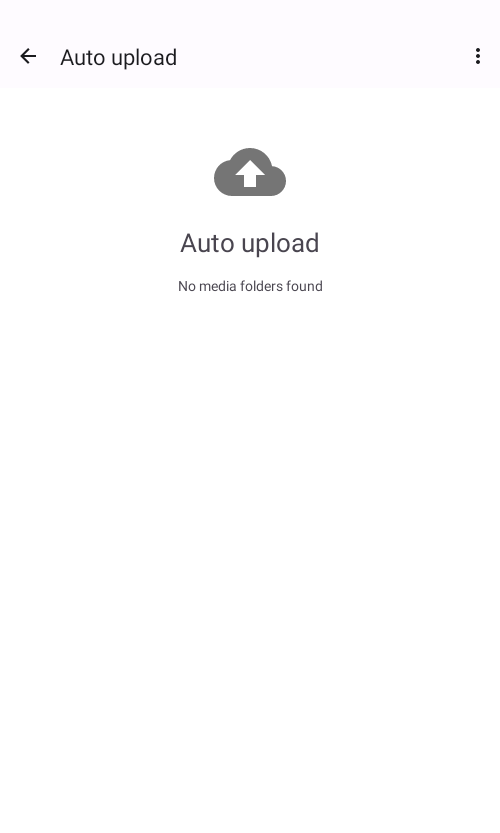
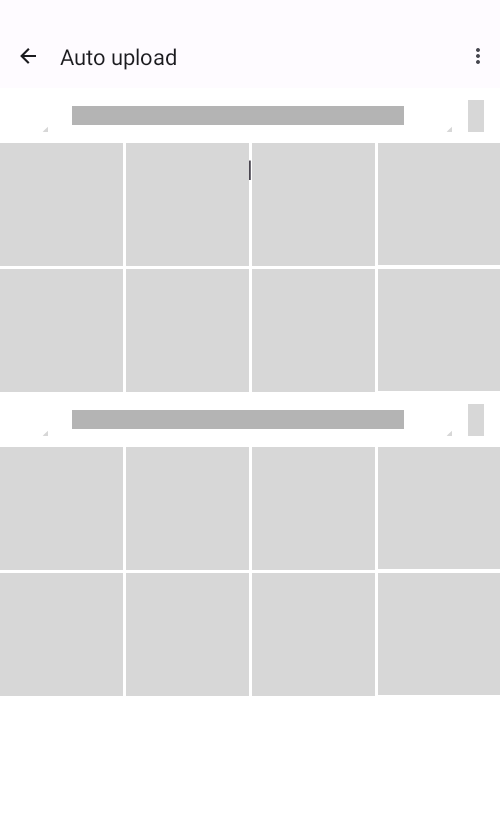
Fix git conflicts

diff --git a/app/src/androidTest/java/com/owncloud/android/ui/fragment/FileDetailFragmentStaticServerIT.kt b/app/src/androidTest/java/com/owncloud/android/ui/fragment/FileDetailFragmentStaticServerIT.kt
@@ -94,12 +94,6 @@ class FileDetailFragmentStaticServerIT : AbstractIT() {
     @ScreenshotTest
     @Suppress("MagicNumber")
     fun showDetailsActivities() {
-        val activity = testActivityRule.launchActivity(null)
-        val sut = FileDetailFragment.newInstance(oCFile, user, 0)
-        activity.addFragment(sut)
-
-        waitForIdleSync()
-
         val date = GregorianCalendar()
         date.set(2005, 4, 17, 10, 35, 30) // random date
 
@@ -152,13 +146,16 @@ class FileDetailFragmentStaticServerIT : AbstractIT() {
             )
         )
 
-        activity.runOnUiThread {
-            sut.fileDetailActivitiesFragment.populateList(activities as List<Any>?, true)
+        val sut = FileDetailFragment.newInstance(oCFile, user, 0)
+        testActivityRule.launchActivity(null).apply {
+            addFragment(sut)
+            waitForIdleSync()
+            runOnUiThread {
+                sut.fileDetailActivitiesFragment.populateList(activities as List<Any>?, true)
+            }
+            longSleep()
+            screenshot(this)
         }
-
-        shortSleep()
-        shortSleep()
-        screenshot(activity)
     }
 
     // @Test

diff --git a/app/src/androidTest/java/com/owncloud/android/ui/activity/NotificationsActivityIT.kt b/app/src/androidTest/java/com/owncloud/android/ui/activity/NotificationsActivityIT.kt
@@ -53,8 +53,6 @@ class NotificationsActivityIT : AbstractIT() {
     @ScreenshotTest
     @SuppressWarnings("MagicNumber")
     fun showNotifications() {
-        val sut: NotificationsActivity = activityRule.launchActivity(null)
-
         val date = GregorianCalendar()
         date.set(2005, 4, 17, 10, 35, 30) // random date
 
@@ -133,11 +131,13 @@ class NotificationsActivityIT : AbstractIT() {
             )
         )
 
-        sut.runOnUiThread { sut.populateList(notifications) }
-
-        shortSleep()
-
-        screenshot(sut)
+        activityRule.launchActivity(null).apply {
+            runOnUiThread {
+                populateList(notifications)
+            }
+            longSleep()
+            screenshot(this)
+        }
     }
 
     @Test

diff --git a/app/src/androidTest/java/com/nextcloud/client/SyncedFoldersActivityIT.java b/app/src/androidTest/java/com/nextcloud/client/SyncedFoldersActivityIT.java
@@ -52,7 +52,7 @@ public class SyncedFoldersActivityIT extends AbstractIT {
     @ScreenshotTest
     public void open() {
         Activity sut = activityRule.launchActivity(null);
-
+        longSleep();
         screenshot(sut);
     }
 
